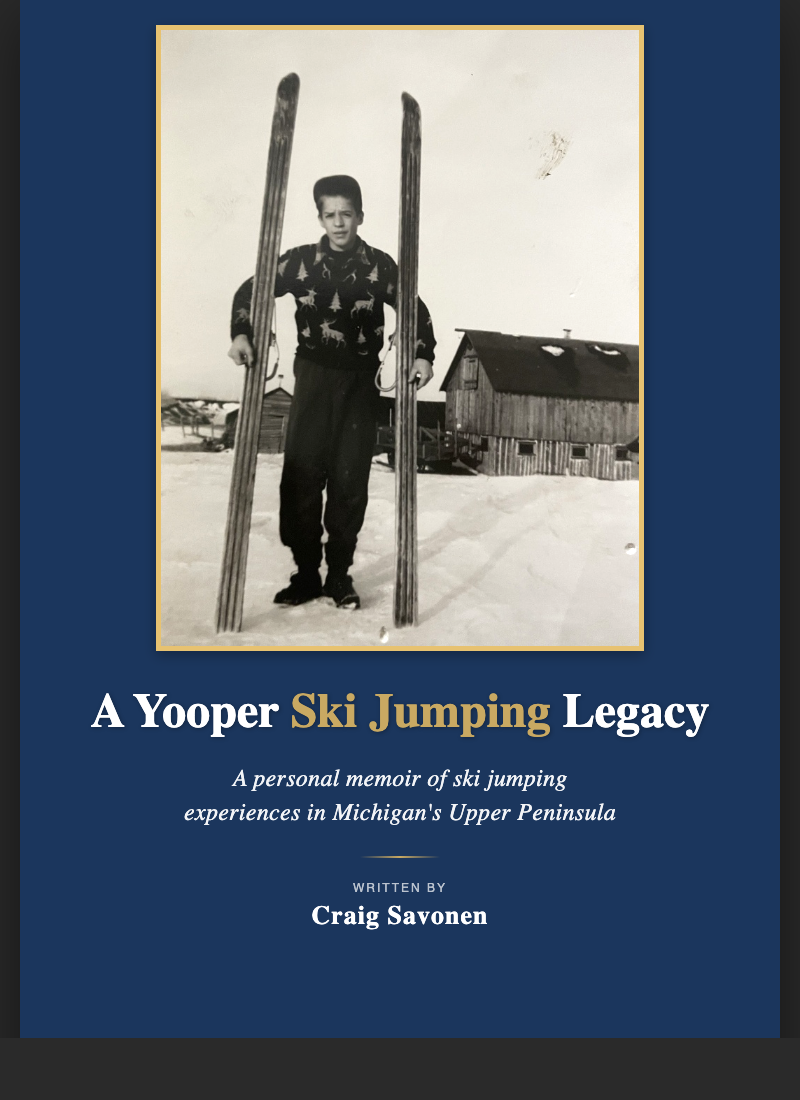
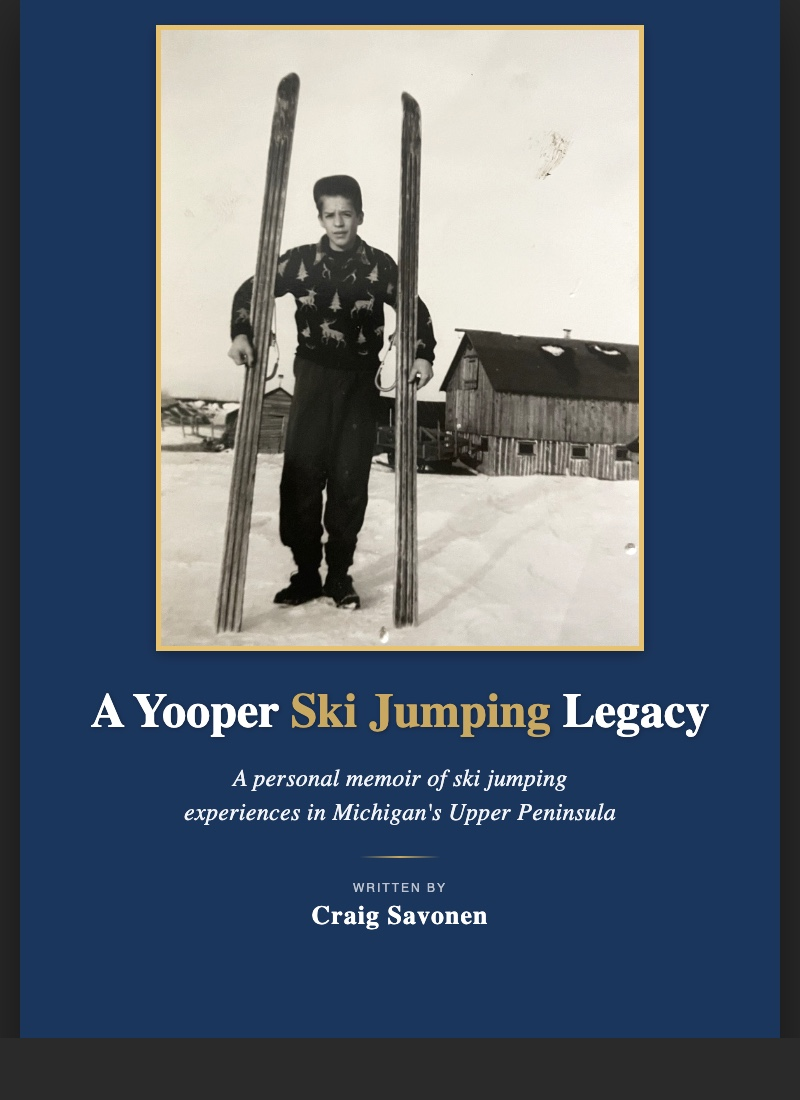
Fix two spelling errors

diff --git a/docs/index.html b/docs/index.html
@@ -2038,7 +2038,7 @@ Olympic Ski Jumping Medal Count By Country (1924 – 2022) (36)
 <section id="flight-style" class="level2">
 <h2 class="anchored" data-anchor-id="flight-style">9.3 – Flight Style</h2>
 <p>As flight aerodynamics became a dominant success factor, the V-style flight position emerged. The V-style is exemplified by the ski tips spread apart while ski backs are close to each other (akin to a jumper’s feet in a duck walk). By the mid-90’s, it became an accepted standard, pioneered as early as 1969 by Polish jumper Miroslaw Graf, and popularized in the late 80’s by the success of Jan Boklov and others. It proved to be aerodynamically superior over a multitude of flight techniques used over the previous 200+ year history of the sport. Eventually, it superseded the symmetrically neat and parallel Daescher style popular from the 50’s until the late 80’s. By the 90’s, V-style jumpers began to be rewarded with style points, rather than debited by competition judges or mocked by the ski jumping community.</p>
-<p>Although the fluid (air) involved in ski jumping is wholly different than say swimming (water), a key element of success for either athlete is an innate ability to maximize propulson and gliding efficiency through the fluid. The fundamentals of precise body positioning and movements can be coached and trained up to a point, but to be world class, one must have exceptional tactile feel and subliminal muscle memory.</p>
+<p>Although the fluid (air) involved in ski jumping is wholly different than say swimming (water), a key element of success for either athlete is an innate ability to maximize propulsion and gliding efficiency through the fluid. The fundamentals of precise body positioning and movements can be coached and trained up to a point, but to be world class, one must have exceptional tactile feel and subliminal muscle memory.</p>
 <div class="quarto-figure quarto-figure-center">
 <figure class="figure">
 <p><img src="resources/images/book/v-style-flight.jpeg" class="img-fluid figure-img" style="width:60.0%"></p>
@@ -2654,7 +2654,7 @@ Large North American Ski Jumping Hills (46)
 <section id="about-the-author" class="level1">
 <h1>13 - About the Author</h1>
 <p><strong>Craig Savonen</strong> grew up in Ironwood, Michigan, where ski jumping was woven into the fabric of community life. Following in the footsteps of his father Willie, Craig competed as a junior ski jumper throughout the 1970s, qualifying for the 1979 Junior National Championships at Squaw Valley, California.</p>
-<p>In 1982, he graduated with an Associate Engineering degree from Gogebic Community College, followed by bachelor’s and master’s degrees from Michigan Tech University. His 40 year engineering career began at Detroit Diesel, an engineering department which evolved in numerous steps over the decades into Detroit Powertrain as part of the global Daimler Truck group. In the last dozen years before retirment in 2024, he was director of their Detroit Powertrain Systems Engineering Group. But, through all those years, he couldn’t escape his passion for the sport that shaped his youth.</p>
+<p>In 1982, he graduated with an Associate Engineering degree from Gogebic Community College, followed by bachelor’s and master’s degrees from Michigan Tech University. His 40 year engineering career began at Detroit Diesel, an engineering department which evolved in numerous steps over the decades into Detroit Powertrain as part of the global Daimler Truck group. In the last dozen years before retirement in 2024, he was director of their Detroit Powertrain Systems Engineering Group. But, through all those years, he couldn’t escape his passion for the sport that shaped his youth.</p>
 <p>Craig and wife Ann are repatriated Yoopers having recently moved back to the U.P., now residing on the eastern end not far from The Bridge. Son Benjamin and daughter Candace were accomplished collegiate swimmers, a sport akin to ski jumping in that the athlete’s success is predicated on mental discipline and physical prowess applied to moving efficiently through a fluid environment. For that matter, Ann’s long distance running demands a mental discipline and physical endurance to not succumb to the environment! Benjamin, daughter-in-law Cait, and granddaughter Zoey live in the Maryland area, and conveniently for Craig and Ann, so does Candace, son-in-law Jon, and granddaughters Avery and Quinn.</p>
 </section>
 <section id="license-copyright" class="level1">
